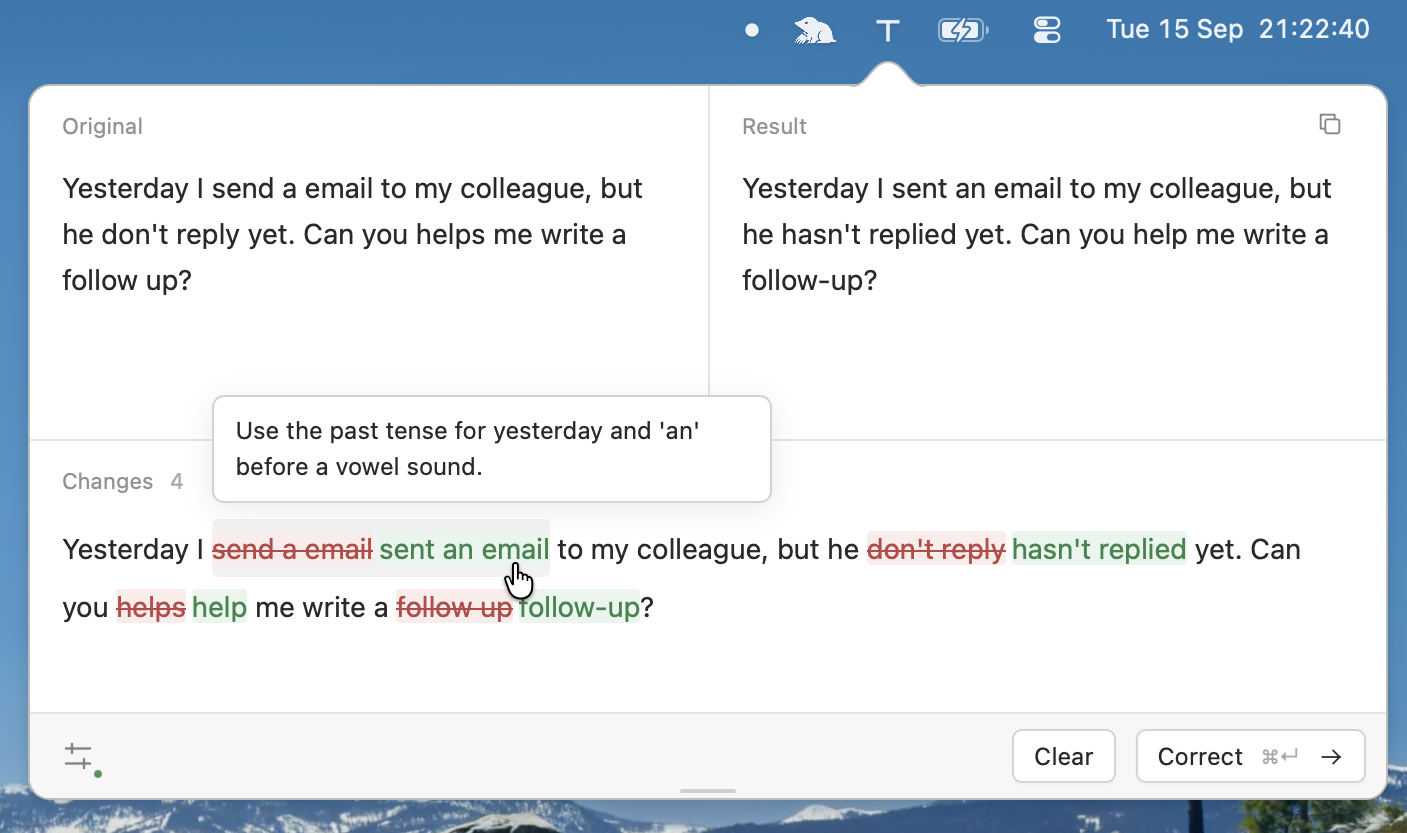
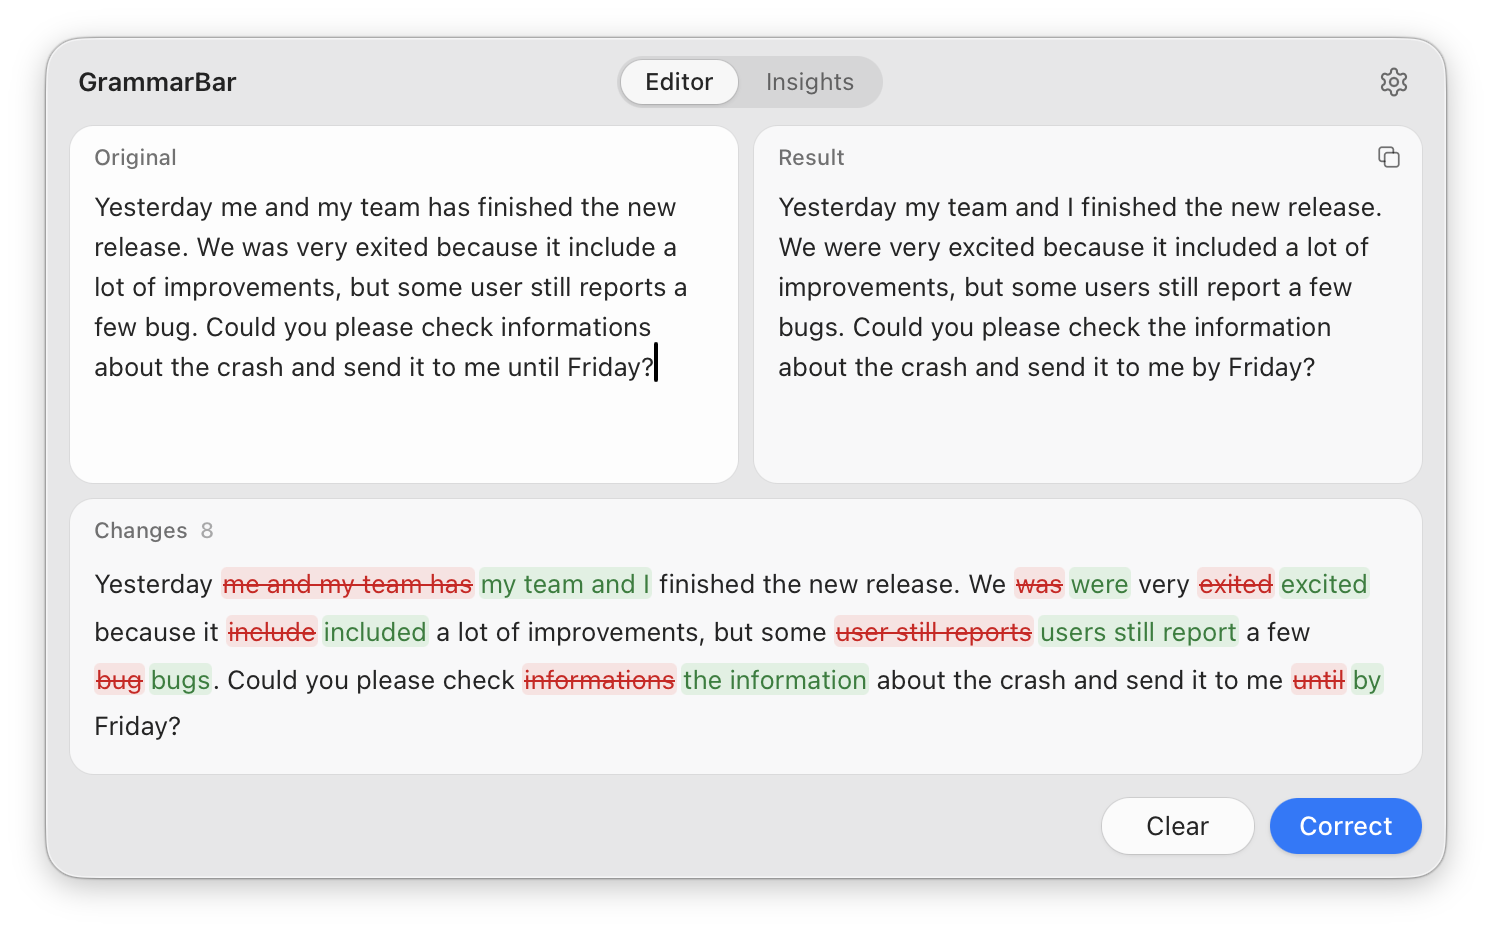
docs: new screenshots and Insights in README

diff --git a/README.md b/README.md
@@ -10,7 +10,7 @@
 </p>
 
 <p align="center">
-  <img src="docs/grammarbar.png" width="900" alt="GrammarBar showing original English text, corrected text, red and green changes, and an explanation of a grammar correction.">
+  <img src="docs/grammarbar.png" width="746" alt="GrammarBar panel with the original text, the corrected text, and each change shown in red and green.">
 </p>
 
 ## Quick Start
@@ -24,6 +24,7 @@
 3. Unzip GrammarBar, move **GrammarBar.app** to **Applications**, and open it.
 4. Click the GrammarBar menu-bar icon, open **Settings**, choose a provider and press **Connect**. If the provider is not installed, Settings links to its install page. Save your instructions and preferred model.
 5. Paste your text and press **Correct** or **⌘↵**. Hover over a change to see its explanation.
+6. Switch to **Insights** (**⌘2**) to see which mistakes you make most often.
 
 ## Features
 
@@ -34,16 +35,28 @@
 - **Explanations on hover** — understand the reason behind each correction.
 - **A compact workspace** — resize the window vertically; changes appear only when present.
 - **Copy and clear** — copy the result or clear all text for your next message.
+- **Insights** — see your most frequent mistake types, the fixes you keep repeating, and whether your mistakes per 100 words go down. Kept only on your Mac; can be turned off.
+- **Fits your Mac** — light or dark appearance, and an option to open at login.
+
+<p align="center">
+  <img src="docs/insights.png" width="746" alt="Insights tab: mistakes per 100 words with a trend, share of texts without mistakes, words checked, mistake types, and repeated mistakes.">
+</p>
+
+<p align="center">
+  <img src="docs/settings.png" width="746" alt="Settings: provider, account, model, speed, and correction instructions, with general options below.">
+</p>
 
 <details>
 <summary><strong>Providers and privacy</strong></summary>
 
 GrammarBar bundles no AI runtime. It looks for `claude` and `codex` in your login-shell `PATH` and in common install folders (`~/.local/bin`, Homebrew, npm, Bun, Volta). Press **Check again** in Settings after installing one.
 
-- **Claude** runs through the official Claude Code CLI (`claude -p`). Sign-in is done by `claude auth login`, so GrammarBar never handles Claude credentials and shares the sign-in with your terminal. If the browser shows a code after sign-in, paste it into Settings. Models come from the account Claude Code is signed in to. To sign out, run `claude auth logout`.
+- **Claude** runs through the official Claude Code CLI (`claude -p`). Sign-in is done by `claude auth login`, so GrammarBar never handles Claude credentials and shares the sign-in with your terminal. If the browser shows a code after sign-in, paste it into Settings. Models come from the account Claude Code is signed in to. **Disconnect** in Settings runs `claude auth logout`, which also signs Claude Code out in your terminal, so GrammarBar asks first.
 - **ChatGPT** runs through the official Codex App Server (`codex app-server`) over local stdio. It does not automate the ChatGPT website.
 
-Text is submitted for correction only when you press **Correct**. Corrections run in fresh, non-persistent sessions, and the editor does not save a text history. Filesystem, shell, web, MCP and other tools are disabled; unexpected tool requests are refused.
+Text is submitted for correction only when you press **Correct**. Corrections run in fresh, non-persistent sessions, and the editor does not save a text history.
+
+**Insights** (on by default, Settings → Mistake statistics) stores, for each checked part, the date, its word count and each change: the changed fragment (up to 60 characters), its replacement, explanation, mistake type, and whether it was an error or a style suggestion. The checked text itself is not stored; only hashes of it are kept, so re-checking the same text, or GrammarBar's own corrected output, is not counted twice. Data stays in `analytics.jsonl` next to the settings and is never sent anywhere. Turning the switch off stops recording; **Clear Data** deletes the file. Filesystem, shell, web, MCP and other tools are disabled; unexpected tool requests are refused.
 
 Codex stores credentials in macOS Keychain using an app-specific home. Settings live in `~/Library/Application Support/com.tabmk.grammarbar/settings.json`. Existing installations keep the legacy `local.textfixer` directory to preserve sign-in and settings.
 
